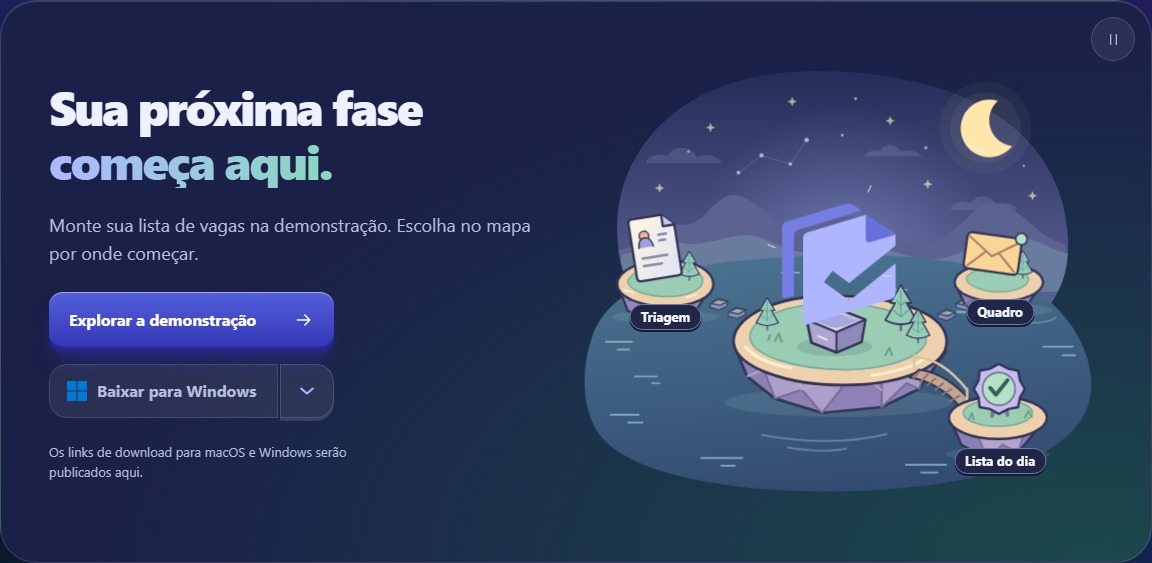
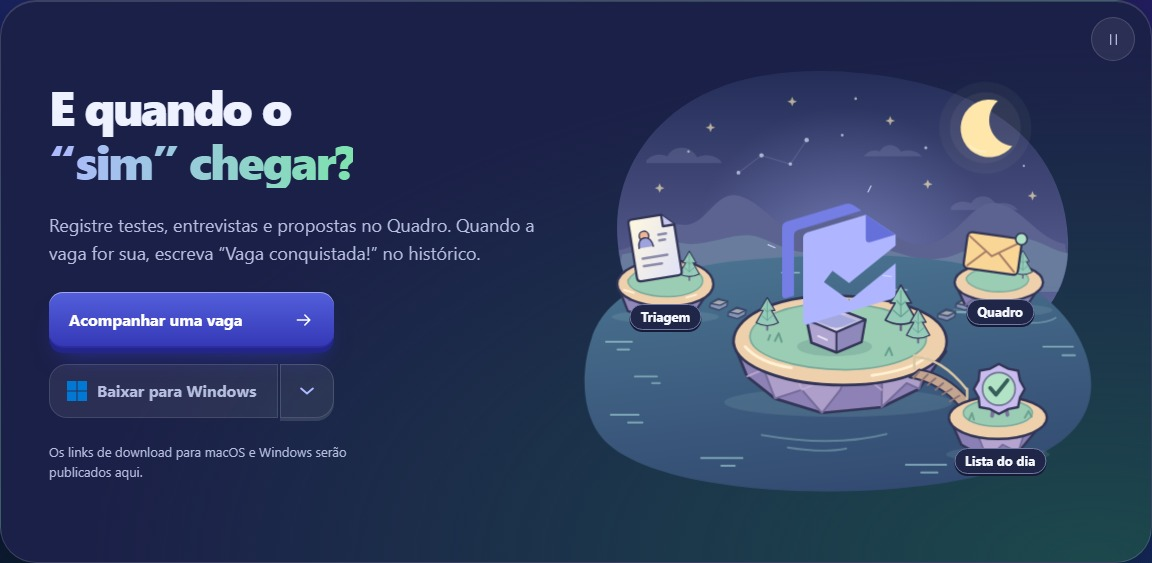
Mostra o caminho da candidatura à proposta no Quadro da landing

Changed region(s): [[0.0312, 0.151, 0.375, 0.3321], [0.0312, 0.3925, 0.4688, 0.4831], [0.0625, 0.5435, 0.2188, 0.6039]]

diff --git a/site/index.html b/site/index.html
@@ -177,13 +177,24 @@
 </div>
 
 <div class="app-tela" data-tela="quadro" hidden>
-<span class="t-sobre">31 enviadas antes · 5 em processo</span>
+<span class="t-sobre">Processos seletivos de exemplo</span>
 <h2 class="t-tit">Quadro</h2>
+<details class="peca quadro-historico">
+  <summary>
+    <span class="quadro-nota"><small>Nota da candidatura · Sable Robotics</small><strong>“Vaga conquistada!”</strong></span>
+    <span class="quadro-ver">Histórico <svg class="ic ic-p" viewBox="0 0 24 24" aria-hidden="true"><path d="m5 9 7 6 7-6"/></svg></span>
+  </summary>
+  <ol aria-label="Histórico da candidatura a Growth Marketing">
+    <li><time datetime="2026-10-26">26 out.</time><span>Enviei meu currículo para a vaga de Growth Marketing.</span></li>
+    <li><time datetime="2026-10-29">29 out.</time><span>Entreguei o teste que a equipe pediu.</span></li>
+    <li><time datetime="2026-11-04">4 nov.</time><span>Na entrevista, apresentei o teste para a equipe.</span></li>
+    <li><time datetime="2026-11-10">10 nov.</time><span>Aceitei a proposta. Começo na segunda!</span></li>
+  </ol>
+</details>
 <div class="kanban" role="region" aria-label="Etapas do quadro de candidaturas" tabindex="0">
 <div class="col"><b class="cn">Enviada</b><div class="cart"><b>Ridgeway Labs</b><span>Analista de Mídia</span><em>Enviada em 09/11</em></div><div class="cart"><b>Lattice Mobility</b><span>Especialista em SEO</span><em>Enviada em 06/11</em></div></div>
-<div class="col"><b class="cn">Teste</b><div class="cart"><b>Saffron Commerce</b><span>Analista de Marketing</span><em>Case até sex, 13/11</em></div></div>
-<div class="col"><b class="cn">Entrevista</b><div class="cart"><b>Orbit Health</b><span>Coordenador de Marketing</span><em>Qui, 12/11 · 14h</em></div><div class="cart"><b>Arbor Learning</b><span>Analista de CRM</span><em>Seg, 16/11 · 11h</em></div></div>
-<div class="col"><b class="cn">Proposta</b><div class="cart"><b>Sable Robotics</b><span>Growth Marketing</span><em>Responder até 20/11</em></div></div>
+<div class="col"><b class="cn">Em processo</b><div class="cart"><b>Saffron Commerce</b><span>Analista de Marketing</span><em>Teste até sex, 13/11</em></div><div class="cart"><b>Orbit Health</b><span>Coordenador de Marketing</span><em>Entrevista · qui, 12/11, 14h</em></div><div class="cart"><b>Arbor Learning</b><span>Analista de CRM</span><em>Entrevista · seg, 16/11, 11h</em></div></div>
+<div class="col"><b class="cn">Oferta</b><div class="cart"><b>Sable Robotics</b><span>Growth Marketing</span><em>Proposta aceita em 10/11</em></div></div>
 </div>
 </div>
 </div>
@@ -340,7 +351,7 @@
   <g class="rotina-peca quadro-mensagem"><g transform="rotate(7 188 107)"><rect x="166" y="95" width="46" height="29" rx="4" fill="#f9da93"/><path d="m168 98 21 14 20-14" fill="none" stroke="#a47057" stroke-width="2"/><circle class="quadro-aviso" cx="210" cy="95" r="7" fill="#f39576"/></g></g>
 </g></g>
 </svg></div>
-<div class="hora-topo"><span class="relogio">depois</span><span class="quem voce">Você</span></div><h3>Acompanhe as respostas</h3><p>Atualize o Quadro quando receber uma resposta. Assim você vê quais vagas estão em teste, entrevista ou proposta.</p></article>
+<div class="hora-topo"><span class="relogio">depois</span><span class="quem voce">Você</span></div><h3>Acompanhe o processo seletivo</h3><p>Anote a data do teste, o que ficou combinado na entrevista e o prazo para responder à proposta. O histórico fica junto da vaga.</p></article>
 </div>
 </section>
 
@@ -644,10 +655,10 @@
     <svg class="ic final-retoma-icone" viewBox="0 0 24 24" aria-hidden="true"><path d="m8 5 11 7-11 7z"/></svg>
   </button>
   <div class="final-conteudo">
-    <h2 class="h2" id="final-titulo">Sua próxima fase <span class="grad">começa aqui.</span></h2>
-    <p class="lead">Monte sua lista de vagas na demonstração.<span class="somente-js"> Escolha no mapa por onde começar.</span></p>
+    <h2 class="h2" id="final-titulo">E quando o <span class="grad">“sim” chegar?</span></h2>
+    <p class="lead">Registre testes, entrevistas e propostas no Quadro. Quando a vaga for sua, escreva “Vaga conquistada!” no histórico.</p>
     <div class="final-acoes">
-      <a class="tecla tecla-p final-demo" href="#app">Explorar a demonstração<svg class="ic" viewBox="0 0 24 24" aria-hidden="true"><path d="M4 12h15m-6-6 6 6-6 6"/></svg></a>
+      <a class="tecla tecla-p final-demo" href="#app" data-ir="quadro">Acompanhar uma vaga<svg class="ic" viewBox="0 0 24 24" aria-hidden="true"><path d="M4 12h15m-6-6 6 6-6 6"/></svg></a>
       <div class="bs somente-js" data-bs>
 <button class="tecla bs-main" type="button" data-bs-principal disabled><img class="marca-so" data-bs-icone src="marcas/win.svg" alt=""><span data-bs-texto>Baixar para Windows</span></button>
 <button class="tecla bs-seta" type="button" data-bs-seta aria-controls="plataformas-2" aria-expanded="false" aria-label="Escolher outra plataforma"><svg class="ic" viewBox="0 0 24 24" aria-hidden="true" style="stroke-width: 2.4"><path d="m5 9 7 6 7-6" /></svg></button>

diff --git a/site/estilo.css b/site/estilo.css
@@ -196,7 +196,37 @@ html:not(.js) .somente-js{display:none!important}
 .ok-ic{color:var(--verde)}
 .chip{display:inline-flex;align-items:center;gap:6px;font-size:12px;font-weight:600;padding:5px 10px;border-radius:999px;background:rgba(255,255,255,.6);box-shadow:inset 0 0 0 1px var(--aro);color:var(--texto2);white-space:nowrap}
 .escuro .chip{background:rgba(255,255,255,.07)}
-.kanban{display:grid;grid-template-columns:repeat(4,minmax(150px,1fr));gap:10px;overflow-x:auto}
+.quadro-historico { padding: 0; }
+.quadro-historico summary {
+  display: flex;
+  align-items: center;
+  justify-content: space-between;
+  flex-wrap: wrap;
+  gap: 8px 16px;
+  padding: 14px 16px;
+  border-radius: inherit;
+  list-style: none;
+  cursor: pointer;
+}
+.quadro-historico summary::-webkit-details-marker { display: none; }
+.quadro-nota { display: grid; gap: 4px; }
+.quadro-nota small { color: var(--texto2); font-size: 13px; }
+.quadro-nota strong { color: var(--verde); font-size: 20px; }
+.quadro-ver { display: inline-flex; align-items: center; gap: 6px; color: var(--acento); font-size: 14px; font-weight: 650; }
+.quadro-historico[open] .quadro-ver svg { transform: rotate(180deg); }
+.quadro-historico ol {
+  display: grid;
+  gap: 10px;
+  margin: 0 16px;
+  padding: 12px 0 16px;
+  border-top: 1px solid var(--linha);
+  list-style: none;
+  font-size: 14px;
+  line-height: 1.5;
+}
+.quadro-historico li { display: grid; grid-template-columns: 4em 1fr; gap: 8px; }
+.quadro-historico time { color: var(--texto2); font-variant-numeric: tabular-nums; }
+.kanban{display:grid;grid-template-columns:repeat(3,minmax(150px,1fr));gap:10px;overflow-x:auto}
 .col{display:flex;flex-direction:column;gap:8px;padding:10px;border-radius:18px;background:var(--peca);box-shadow:inset 0 0 0 1px var(--aro);min-height:220px}
 .col b.cn{font-size:13px;padding:2px 4px}
 .cart{display:flex;flex-direction:column;gap:2px;padding:10px;border-radius:13px;background:rgba(255,255,255,.7);font-size:12px;box-shadow:0 6px 14px -12px var(--sombra)}

diff --git a/site/app.js b/site/app.js
@@ -370,10 +370,16 @@ function aoClicar(ev) {
   }
   if ((el = alvo('[data-aba]'))) { estado.aba = el.dataset.aba; return desenhar(); }
   if ((el = alvo('[data-ir]'))) {
+    if (el.matches('a[href]')) {
+      if (ev.ctrlKey || ev.metaKey || ev.shiftKey || ev.altKey) return;
+      // A âncora nativa continua disponível sem JS. No app, a própria aba recebe o foco.
+      ev.preventDefault();
+      if (location.hash !== el.hash) history.pushState(null, '', el.hash);
+    }
     estado.aba = el.dataset.ir;
     desenhar();
     const aba = $(`[data-aba="${estado.aba}"]`);
-    if (el.closest('.final-destinos')) {
+    if (el.closest('.final')) {
       aba.focus({ preventScroll: true });
       // No celular, a barra de abas tem sua própria rolagem horizontal.
       aba.scrollIntoView({ block: 'center', inline: 'center', behavior: 'instant' });
